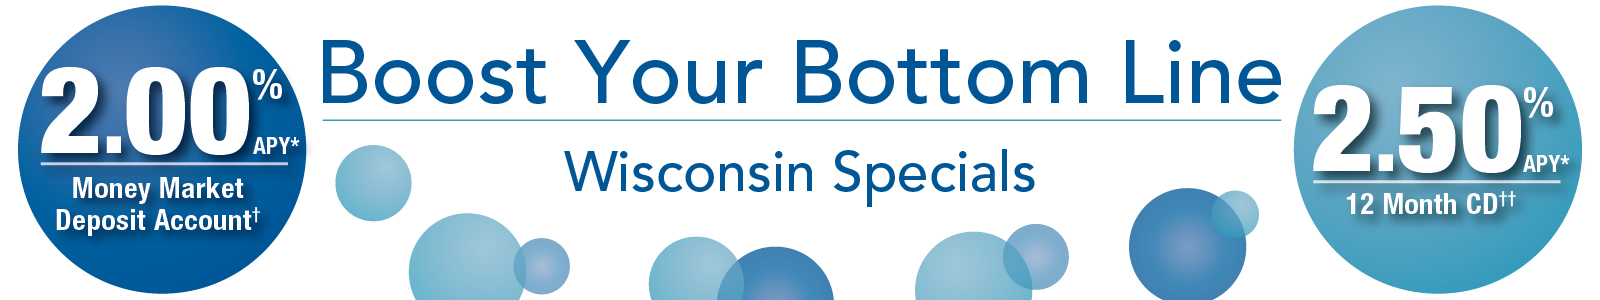
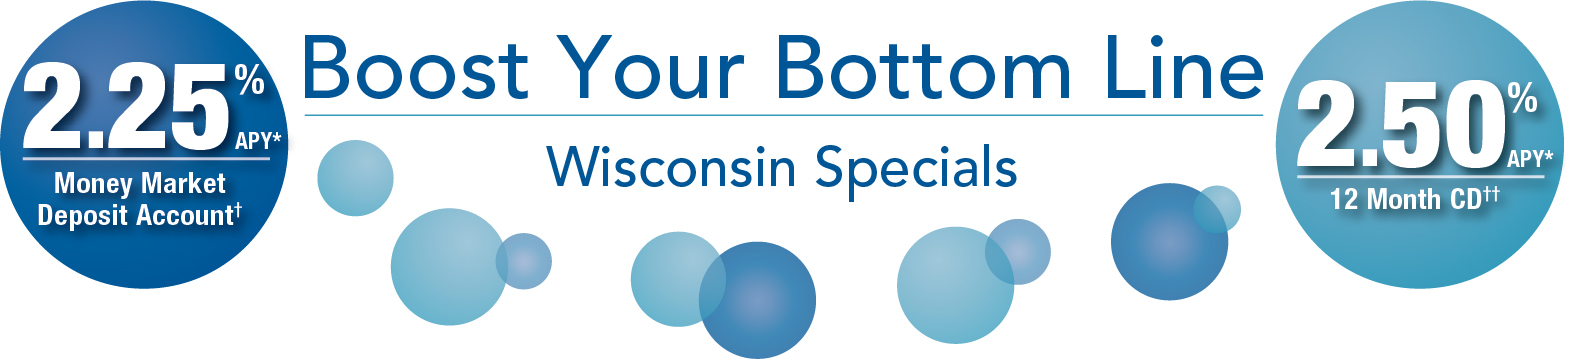
Change to wisconsin Money Market Ad

diff --git a/savings.html b/savings.html
@@ -138,7 +138,7 @@
               </div>
             </div><!-- row -->
             <div class="row spacer">
-              <p class="small para-margin"><sup>*</sup>Annual Percentage Yield (APY) <sup>†</sup>Money Market Deposit Account: Promotional rate of 2.00% APY for new accounts effective as of 10/15/18 and guaranteed for the first 365 days after account opening. Promotional rate offered on $10,000.00 or more of new money not currently on deposit within last 30 days with CIBM Bank. Minimum opening deposit of $100.00. The interest rate is subject to change at any time after initial 365 days. As of 10/10/18 Personal Money Market balances of $0.00-$9,999.99 (.08% APY); $10,000.00-$24,999.99 (.12% APY); $25,000.00-$49,999.99 (.15% APY); $50,000.00-$99,999.99 (.17% APY); $100,000.00 and above (.20% APY). Monthly fee $2.00 per debit if $1,000.00 minimum balance not maintained. As of 10/10/18 Business Money Market balances of $0.00-$9,999.99 (.08% APY); $10,000.00-$24,999.99 (.12% APY); $25,000.00-$49,999.99 (.15% APY); $50,000.00-$99,999.99 (.17% APY); $100,000.00 and above (.20% APY). Monthly fee $15.00 service charge if $5,000.00 minimum balance not maintained. Fees may reduce earnings. Accounts closed within 6 months of opening date subject to a $25.00 closing fee.  <sup>††</sup>12 Month Certificate of Deposit & IRA: Promotional rate of 2.50% (APY) effective as of 10/15/18 and guaranteed for the term of the account. Offer limited to $10,000.00 or more of new money not currently on deposit within last 30 days with CIBM Bank. Minimum opening deposit of $2,500.00 and a maximum of $250,000.00. Withdrawals made prior to maturity may be subject to an early withdrawal penalty. Offer not available in combination with any other offer.</p>
+              <p class="small para-margin"><sup>*</sup>Annual Percentage Yield (APY) <sup>†</sup>Money Market Deposit Account: Promotional rate of 2.25% APY for new accounts effective as of 10/22/18 and guaranteed for the first 365 days after account opening. Promotional rate offered on $10,000.00 or more of new money not currently on deposit within last 30 days with CIBM Bank. Minimum opening deposit of $100.00. The interest rate is subject to change at any time after initial 365 days. As of 10/10/18 Personal Money Market balances of $0.00-$9,999.99 (.08% APY); $10,000.00-$24,999.99 (.12% APY); $25,000.00-$49,999.99 (.15% APY); $50,000.00-$99,999.99 (.17% APY); $100,000.00 and above (.20% APY). Monthly fee $2.00 per debit if $1,000.00 minimum balance not maintained. As of 10/10/18 Business Money Market balances of $0.00-$9,999.99 (.08% APY); $10,000.00-$24,999.99 (.12% APY); $25,000.00-$49,999.99 (.15% APY); $50,000.00-$99,999.99 (.17% APY); $100,000.00 and above (.20% APY). Monthly fee $15.00 service charge if $5,000.00 minimum balance not maintained. Fees may reduce earnings. Accounts closed within 6 months of opening date subject to a $25.00 closing fee.  <sup>††</sup>12 Month Certificate of Deposit & IRA: Promotional rate of 2.50% (APY) effective as of 10/15/18 and guaranteed for the term of the account. Offer limited to $10,000.00 or more of new money not currently on deposit within last 30 days with CIBM Bank. Minimum opening deposit of $2,500.00 and a maximum of $250,000.00. Withdrawals made prior to maturity may be subject to an early withdrawal penalty. Offer not available in combination with any other offer.</p>
             </div><!-- row -->
             <div class="row spacer">
               <div class="col-md-12">
